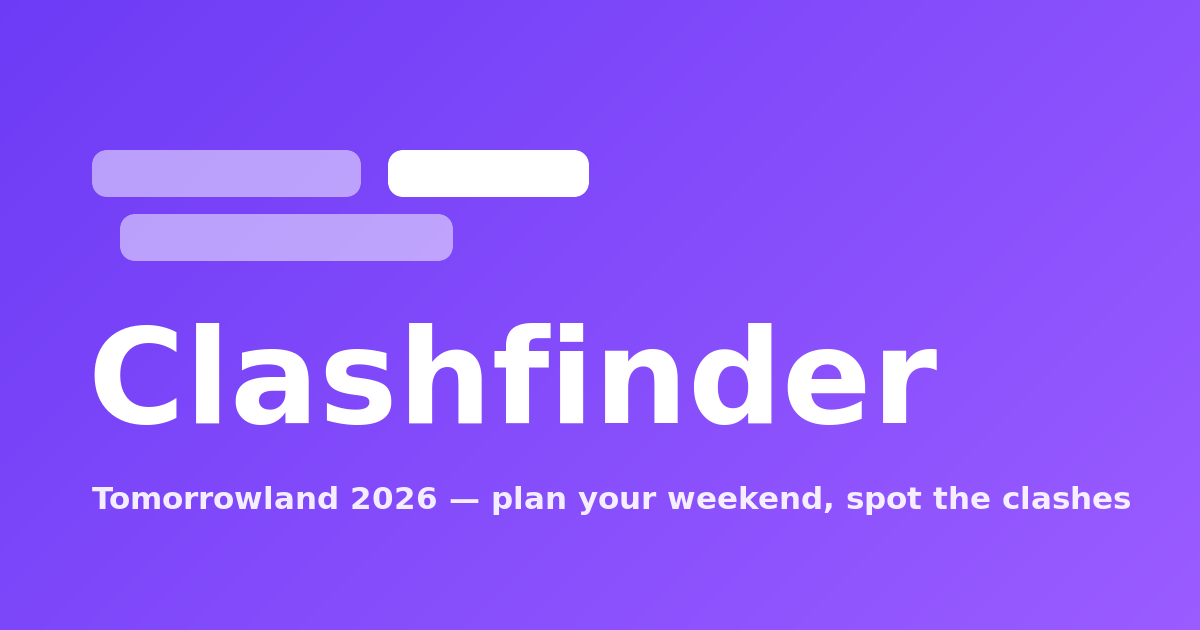
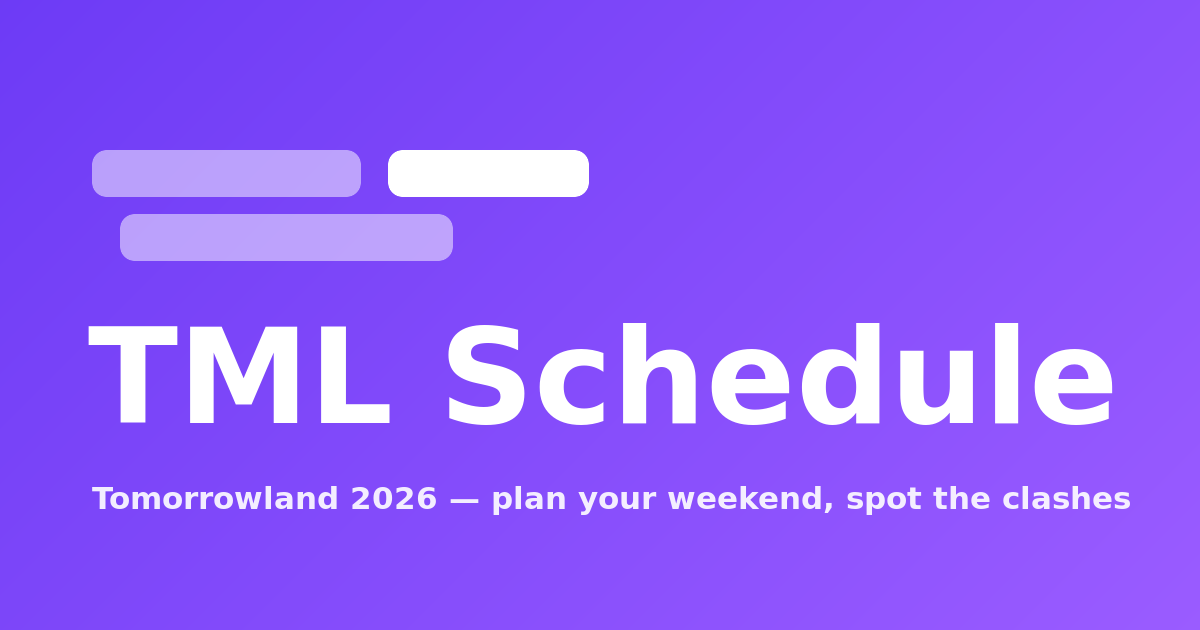
Rename product to TML Schedule
Avoids the existing 'Clashfinder' name. Updates title, OG/Twitter meta,
OG image, logo wordmark, favicon label, and README. The 'clash' feature
wording (clash detection) stays.

Changed region(s): [[0.0617, 0.5127, 0.925, 0.6937]]

diff --git a/index.html b/index.html
@@ -4,7 +4,7 @@
     <meta charset="UTF-8" />
     <link rel="icon" type="image/svg+xml" href="/favicon.svg" />
     <meta name="viewport" content="width=device-width, initial-scale=1.0" />
-    <title>Tomorrowland 2026 — Clashfinder</title>
+    <title>TML Schedule — Tomorrowland 2026</title>
     <meta
       name="description"
       content="Plan your Tomorrowland 2026 weekend — a selectable timetable with clash detection, shareable by link. No account, no backend."
@@ -12,8 +12,8 @@
 
     <!-- Social link previews (absolute URLs are required by OG/Twitter). -->
     <meta property="og:type" content="website" />
-    <meta property="og:site_name" content="Clashfinder" />
-    <meta property="og:title" content="Clashfinder — Tomorrowland 2026" />
+    <meta property="og:site_name" content="TML Schedule" />
+    <meta property="og:title" content="TML Schedule — Tomorrowland 2026" />
     <meta
       property="og:description"
       content="Plan your weekend, spot the clashes, and share your lineup with a link. No account, no backend."
@@ -22,9 +22,9 @@
     <meta property="og:image" content="https://tml.hundert.app/og.png" />
     <meta property="og:image:width" content="1200" />
     <meta property="og:image:height" content="630" />
-    <meta property="og:image:alt" content="Clashfinder — Tomorrowland 2026" />
+    <meta property="og:image:alt" content="TML Schedule — Tomorrowland 2026" />
     <meta name="twitter:card" content="summary_large_image" />
-    <meta name="twitter:title" content="Clashfinder — Tomorrowland 2026" />
+    <meta name="twitter:title" content="TML Schedule — Tomorrowland 2026" />
     <meta
       name="twitter:description"
       content="Plan your weekend, spot the clashes, and share your lineup with a link."

diff --git a/README.md b/README.md
@@ -1,9 +1,9 @@
 <p align="center">
-  <img src="docs/logo.svg" alt="Clashfinder — Tomorrowland 2026 W1 timetable planner" width="460" />
+  <img src="docs/logo.svg" alt="TML Schedule — Tomorrowland 2026 timetable planner" width="460" />
 </p>
 
 <p align="center">
-  A single-page <strong>festival clashfinder</strong> for the Tomorrowland 2026 lineup (both weekends) —
+  A single-page <strong>festival schedule planner</strong> for the Tomorrowland 2026 lineup (both weekends) —
   plan your sets, spot the clashes, and share your plan with a link. No backend, no account.
 </p>
 